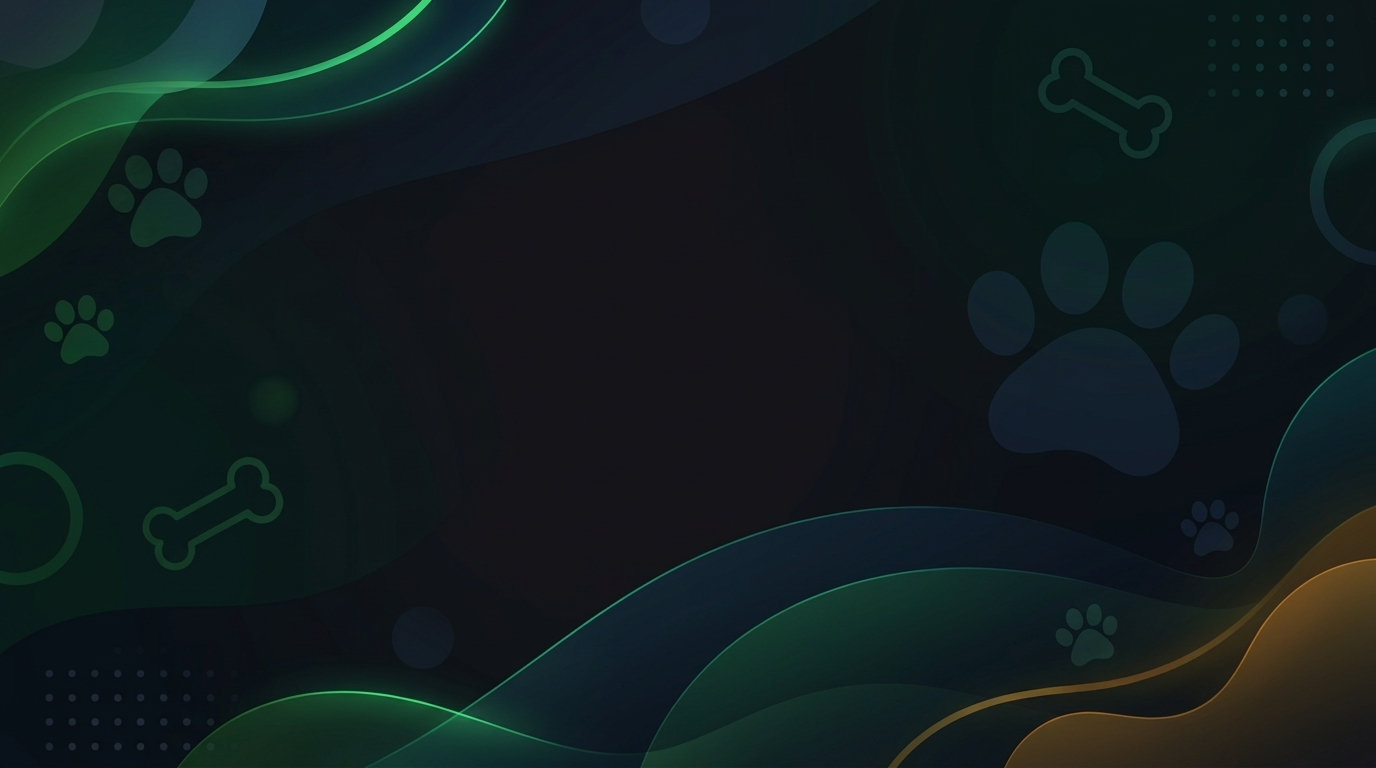
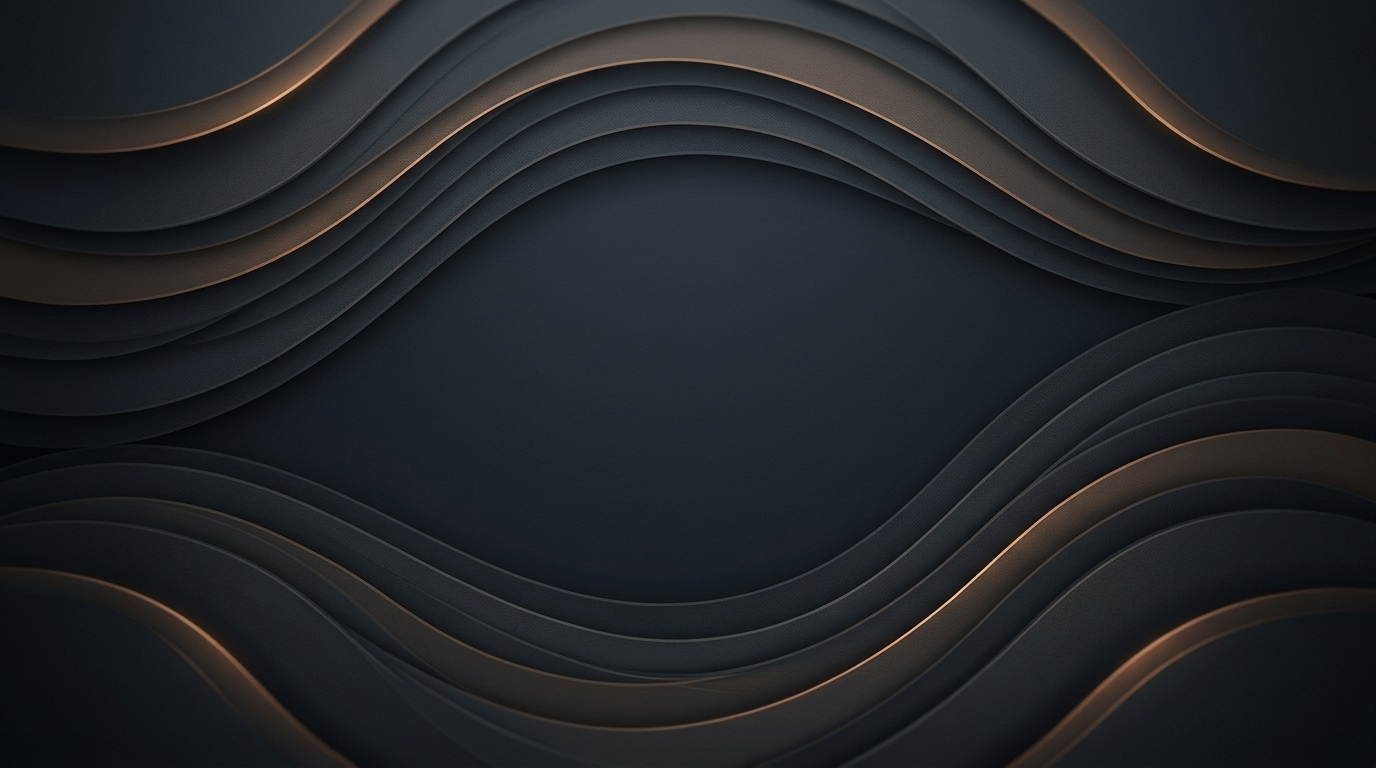
fix :  bugs fixed in inventory page

diff --git a/inventory.html b/inventory.html
@@ -1,56 +1,87 @@
 <!DOCTYPE html>
 <html lang="en">
+
 <head>
     <meta charset="UTF-8">
     <meta name="viewport" content="width=device-width, initial-scale=1.0">
-    <title>PawMart | Inventory</title>
-    <link rel="icon" type="image/png" href="assets/Gemini_Generated_Image_cszvupcszvupcszv.jpg">
-    <title>PawMart | Pet Shop Management System</title>
+    <title>FashionRack | Inventory</title>
+    <link rel="icon" type="image/png" href="assets/logof.png">
     <link rel="stylesheet" href="css/inventory.css">
     <link href='https://unpkg.com/boxicons@2.1.4/css/boxicons.min.css' rel='stylesheet'>
 
 </head>
 </head>
+
 <body>
     <section id="main-section">
         <div class="main">
-        <div class="left-container">
-            <div class="img-container">
-                <img src="assets/Glossy PawMart Pet Shop Logo.png" alt="" class="logo">
+            <div class="left-container">
+                <div class="img-container">
+                    <img src="assets/logof.png" alt="" class="logo">
+                </div>
+
+                <div class="list-container">
+                    <ul>
+                        <li><span class="heading">Dashboard</span></li>
+                        <li><a href="index.html"><i class='bx bx-home-alt'></i> Overview</a></li>
+                        <li></i><a href="index.html"><i class='bx bx-cart'></i> Point of Sale</a></li>
+
+                        <li><span class="heading">Management</span></li>
+                        <li><a href="inventory.html"><i class='bx bx-package'></i> Inventory</a></li>
+                        <li><a href=""><i class='bx bx-user'></i> Customers</a></li>
+                        <li><a href=""><i class='bx bx-user'></i> Suppliers</a></li>
+
+                        <li><span class="heading">Business</span></li>
+                        <li><a href=""><i class='bx bx-bar-chart-alt-2'></i> Reports</a></li>
+                        <li><a href=""><i class='bx bx-money-withdraw'></i> Expenses</a></li>
+                        <li><a href=""><i class='bx bx-group'></i> Employees</a></li>
+
+                    </ul>
+                </div>
             </div>
 
-            <div class="list-container">
-                <ul>
-                    <li><span class="heading">Dashboard</span></li>
-                    <li><a href="index.html"><i class='bx bx-home-alt'></i> Overview</a></li>
-                    <li></i><a href="index.html"><i class='bx bx-cart'></i> Point of Sale</a></li>
 
-                    <li><span class="heading">Management</span></li>
-                    <li><a href="inventory.html"><i class='bx bx-package'></i> Inventory</a></li>
-                    <li><a href=""><i class='bx bx-user'></i> Customers</a></li>
-                    <li><a href=""><i class='bx bx-user'></i> Suppliers</a></li>
-                    
-                    <li><span class="heading">Business</span></li>
-                    <li><a href=""><i class='bx bx-bar-chart-alt-2'></i> Reports</a></li>
-                    <li><a href=""><i class='bx bx-money-withdraw'></i> Expenses</a></li>
-                    <li><a href=""><i class='bx bx-group'></i> Employees</a></li>
+            <div class="right-container">
 
-                </ul>
             </div>
         </div>
-
-
-        <div class="right-container">
-            
-        </div>
-    </div>
     </section>
 
     <section id="inventory-section">
+
         <div class="add-inventory-container">
-            
+
+            <div class="product-container">
+                <div class="product-img-container">
+                    <img src="https://media.cos.com/assets/001/17/55/17559d0d864a1a24ce309233b7577774d604ae5c_xxl-1.jpg?imwidth=2160" alt="Premium Adult Dog Food" class="product-img">
+                </div>
+                <div class="product-detail-container">
+                    <h3 class="product-title">Oversized Heavyweight Cotton Tee</h3>
+                    <p class="product-price">$28.00</p>
+                    <p class="product-desc">Relaxed-fit crewneck t-shirt crafted from 240gsm combed organic cotton with dropped shoulders and a ribbed collar for everyday wear.</p>
+                    <span class="product-qty">product Size : Medium</span>
+                    <span class="product-qty">Qty: 45 in stock</span>
+                    <span class="product-qty">product type : T-Shirt</span>
+                </div>
+            </div>
+
+            <div class="product-container">
+                <div class="product-img-container">
+                    <img src="https://media.cos.com/assets/001/17/55/17559d0d864a1a24ce309233b7577774d604ae5c_xxl-1.jpg?imwidth=2160" alt="Premium Adult Dog Food" class="product-img">
+                </div>
+                <div class="product-detail-container">
+                    <h3 class="product-title">Oversized Heavyweight Cotton Tee</h3>
+                    <p class="product-price">$28.00</p>
+                    <p class="product-desc">Relaxed-fit crewneck t-shirt crafted from 240gsm combed organic cotton with dropped shoulde</p>
+                    <span class="product-qty">product Size : Medium</span>
+                    <span class="product-qty">Qty: 45 in stock</span>
+                    <span class="product-qty">product type : T-Shirt</span>
+                </div>
+            </div>
+
         </div>
     </section>
-    
+
 </body>
+
 </html>

diff --git a/css/inventory.css b/css/inventory.css
@@ -51,7 +51,7 @@ body {
     margin: 0;
     height: 100px;
     margin-bottom: 3px;
-    filter: drop-shadow(0 0 30px #4eee76);
+    filter: drop-shadow(0 0 30px #ffffffa9);
 }
 
 
@@ -97,14 +97,94 @@ section {
 }
 
 .add-inventory-container {
-    display: flex;
-    flex-direction: row;
-    gap: 10px;
+    display: grid;
+    grid-template-columns: repeat(auto-fill, minmax(240px, 280px)); /* keeps default card width even with 1 item */
+    justify-content: start;
+    align-content: start;   /* prevents rows from stretching vertically to fill the 100vh section */
+    align-items: stretch;   /* makes all cards in a row match the tallest card's height */
+    gap: 24px;
     width: 100%;
-    min-height: calc(100vh - 60px); /* makes it a full-screen section below .main */
+    min-height: calc(100vh - 60px);
     padding: 20px;
     border: 2px solid rgba(215, 214, 214, 0.292);
     border-radius: 10px;
     backdrop-filter: blur(20px);
     color: white;
+}
+
+.product-container {
+    display: flex;
+    flex-direction: column;
+    justify-content: space-between;
+    padding: 12px;
+    border: 2px solid rgba(155, 153, 153, 0.405);
+    border-radius: 10px;
+    height: 430px;          /* uniform height across every product card */
+    width: 100%;
+    gap: 12px;
+    background: rgba(255, 255, 255, 0.116);
+    backdrop-filter: blur(20px);
+    overflow: hidden;
+    overflow-wrap: break-word;
+}
+
+.product-img-container {
+    flex: 0 0 165px;        /* fixed image box height so every card has the same upper half */
+    width: 100%;
+    display: flex;
+    justify-content: center;
+    align-items: center;
+    border-radius: 8px;
+    padding: 10px;
+    overflow: hidden;
+    background: rgba(255, 255, 255, 0.116);
+}
+
+.product-img {
+    max-width: 100%;
+    max-height: 100%;
+    width: auto;
+    height: auto;
+    object-fit: contain;
+    border-radius: 6px;
+}
+
+.product-detail-container {
+    flex: 1;                /* fills remaining height evenly */
+    min-height: 0;          /* required so flex child can scroll/shrink properly */
+    width: 100%;
+    display: flex;
+    flex-direction: column;
+    gap: 6px;
+    text-align: left;
+}
+
+.product-title {
+    margin: 0;
+    font-size: 1.05rem;
+    font-weight: 600;
+    color: #ffffff;
+}
+
+.product-price {
+    margin: 0;
+    font-size: 1.15rem;
+    font-weight: 700;
+    color: #4eee76;
+}
+
+.product-desc {
+    margin: 0;
+    font-size: 0.88rem;
+    line-height: 1.4;
+    color: rgba(255, 255, 255, 0.82);
+    overflow-y: auto;       /* scrolls neatly if a description is extra long */
+    overflow-wrap: anywhere;
+    padding-right: 4px;
+}
+
+.product-qty {
+    font-size: 0.82rem;
+    font-weight: 500;
+    color: rgba(255, 255, 255, 0.7);
 }

diff --git a/index.html b/index.html
@@ -4,8 +4,8 @@
 <head>
     <meta charset="UTF-8">
     <meta name="viewport" content="width=device-width, initial-scale=1.0">
-    <link rel="icon" type="image/png" href="assets/Gemini_Generated_Image_cszvupcszvupcszv.jpg">
-    <title>PawMart | Pet Shop Management System</title>
+    <link rel="icon" type="image/png" href="assets/logof.png">
+    <title>FashionRack | Dashboard</title>
     <link rel="stylesheet" href="css/style.css">
     <link href='https://unpkg.com/boxicons@2.1.4/css/boxicons.min.css' rel='stylesheet'>
 </head>
@@ -14,7 +14,7 @@
     <div class="main">
         <div class="left-container">
             <div class="img-container">
-                <img src="assets/Glossy PawMart Pet Shop Logo.png" alt="" class="logo">
+                <img src="assets/logof.png" alt="" class="logo">
             </div>
 
             <div class="list-container">

diff --git a/css/style.css b/css/style.css
@@ -51,7 +51,7 @@ body{
     margin: 0;
     height: 100px;
     margin-bottom: 3px;
-    filter: drop-shadow(0 0 30px #4eee76);
+    filter: drop-shadow(0 0 30px #ffffffa9);
 }
 
 
